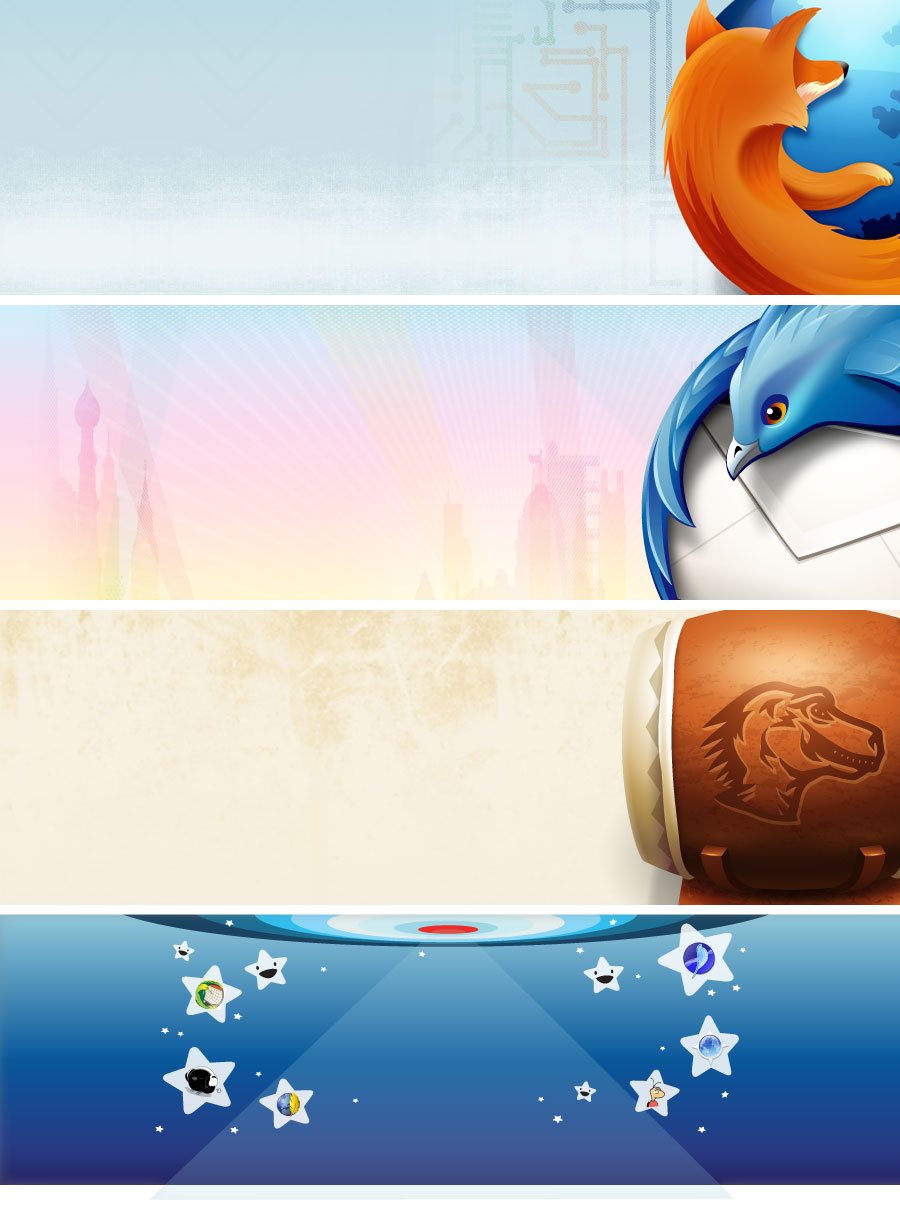
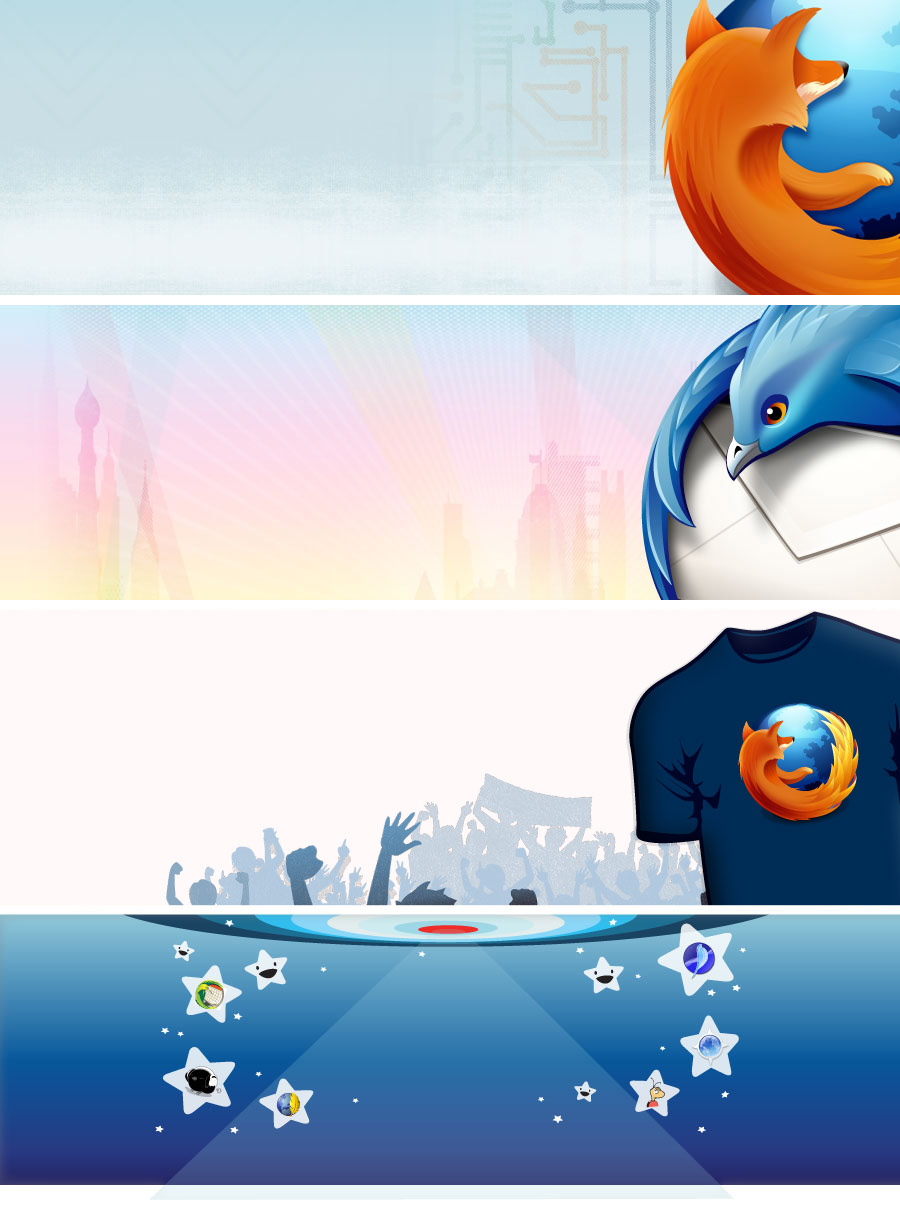
Add firefox t-shirt promotion to front page
git-svn-id: svn+ssh://svn.mozilla.org/projects/mozilla.org/trunk@93692 4eb1ac78-321c-0410-a911-ec516a8615a5

Changed region(s): [[0.0, 0.4893, 1.0, 0.7645]]

diff --git a/index.html b/index.html
@@ -91,13 +91,13 @@
             <a href="http://mozilla.org/thunderbird/" class="action-button download-thunderbird" onMouseDown="dcsMultiTrack('DCS.dcsuri', '/button/thunderbird.html', 'WT.ti', 'Thunderbird%20Download');"><strong>Get Thunderbird »</strong></a>
         </div>
 
-        <div class="home-feature-contents" id="feature-drumbeat" style="display: none;">
+        <div class="home-feature-contents" id="feature-tshirt" style="display: none;">
             <script type="text/javascript">// <![CDATA[
-            document.getElementById('feature-drumbeat').id = 'page-feature-drumbeat';
+            document.getElementById('feature-tshirt').id = 'page-feature-tshirt';
             // ]]></script>
-            <h4>Drumbeat</h4>
-            <p>People, projects and events focused on building the open web.</p>
-            <p><a class="action-button button-drumbeat" href="/drumbeat"><strong>Learn more »</strong></a></p>
+            <h4>Millions of Mozillians make Firefox great.</h4>
+            <p>Show your support with a donation to Mozilla today to get the Firefox t-shirt.</p>	
+            <p><a class="action-button button-tshirt" href="http://firefoxtshirt.mozilla.org/"><strong>Donate now »</strong></a></p>
         </div>
 
         <div class="home-feature-contents" id="feature-projects" style="display: none;">
@@ -115,7 +115,7 @@
     <ul id="home-nav" class="pager-tabs">
         <li id="firefox-link"><a href="#feature-firefox">Firefox</a></li>
         <li id="thunderbird-link"><a href="#feature-thunderbird">Thunderbird</a></li>
-        <li id="drumbeat-link"><a href="#feature-drumbeat">Drumbeat</a></li>
+        <li id="tshirt-link"><a href="#feature-tshirt">Get the t-shirt</a></li>
         <li id="projects-link"><a href="#feature-projects">More Projects</a></li>
     </ul>
 

diff --git a/style/screen-2010.css b/style/screen-2010.css
@@ -300,7 +300,7 @@ body {
 				);
 }
 
-#home-feature .button-drumbeat {
+#home-feature .button-tshirt {
 	color: #0489b7;
 	border-color: #b0b0b0;
 	padding: 4px 40px;
@@ -371,7 +371,7 @@ body {
     background: #c0dce4 url(/images/home/feature-bg.jpg) 50% -920px no-repeat;
 }
 
-#home-feature #page-feature-drumbeat {
+#home-feature #page-feature-tshirt {
     background: #c0dce4 url(/images/home/feature-bg.jpg) 100% -610px no-repeat;
 }
 
@@ -392,14 +392,15 @@ body {
 	padding: 50px 30px 10px 30px;
 }
 
-#home-feature #page-feature-drumbeat h4 {
+#home-feature #page-feature-tshirt h4 {
     font-size: 38px;
     line-height: 38px;
     text-shadow: 1px 1px rgba(255,255,255,0.8);
-    color: #444444;
+    color: #d64203;
+    width: 80%;
 }
 
-#home-feature #page-feature-drumbeat p {
+#home-feature #page-feature-tshirt p {
     margin: 0 270px 10px 0;
 }
 
@@ -481,7 +482,7 @@ ul#home-nav li {
 
 #home-nav.pager-selected-feature-firefox     #firefox-link,
 #home-nav.pager-selected-feature-thunderbird #thunderbird-link,
-#home-nav.pager-selected-feature-drumbeat    #drumbeat-link,
+#home-nav.pager-selected-feature-tshirt      #tshirt-link,
 #home-nav.pager-selected-feature-projects    #projects-link {
     background: url(/images/home/feature-icons.png) no-repeat 50% 0;
 }
@@ -489,7 +490,7 @@ ul#home-nav li {
 #home-nav li#firefox-link     a { background-position: 50% -200px; }
 #home-nav li#thunderbird-link a { background-position: 50% -400px; }
 #home-nav li#projects-link    a { background-position: 50% -600px; }
-#home-nav li#drumbeat-link    a { background-position: 50% -800px; }
+#home-nav li#tshirt-link      a { background-position: 50% -800px; }
 
 #home-nav li {
     display: block;
